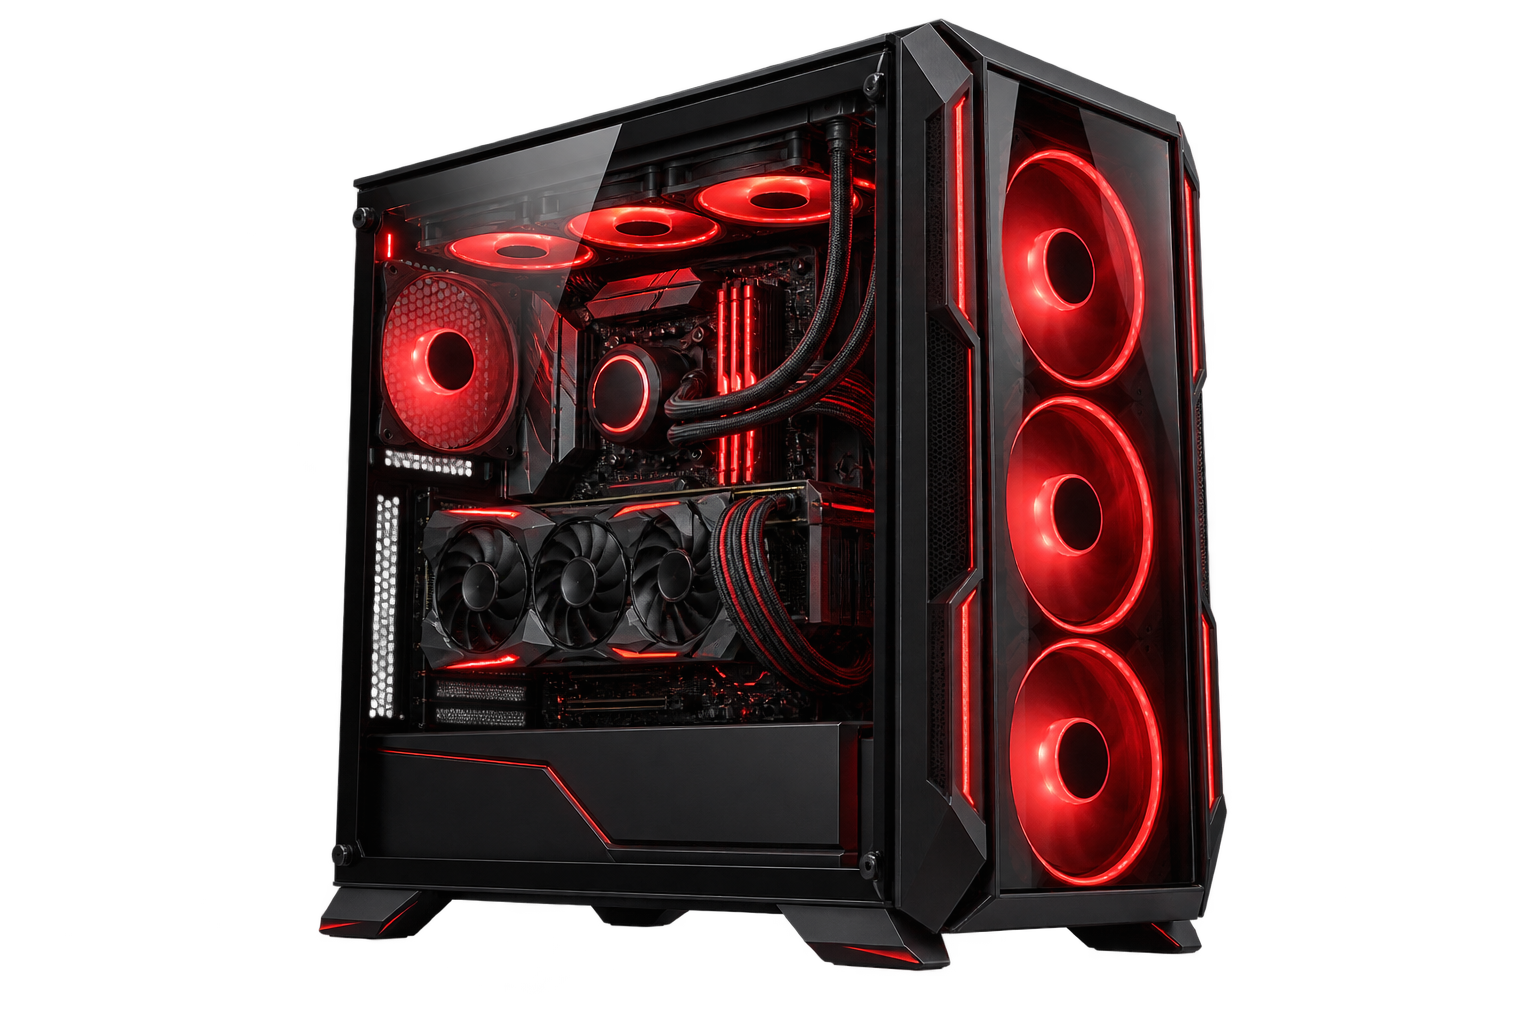
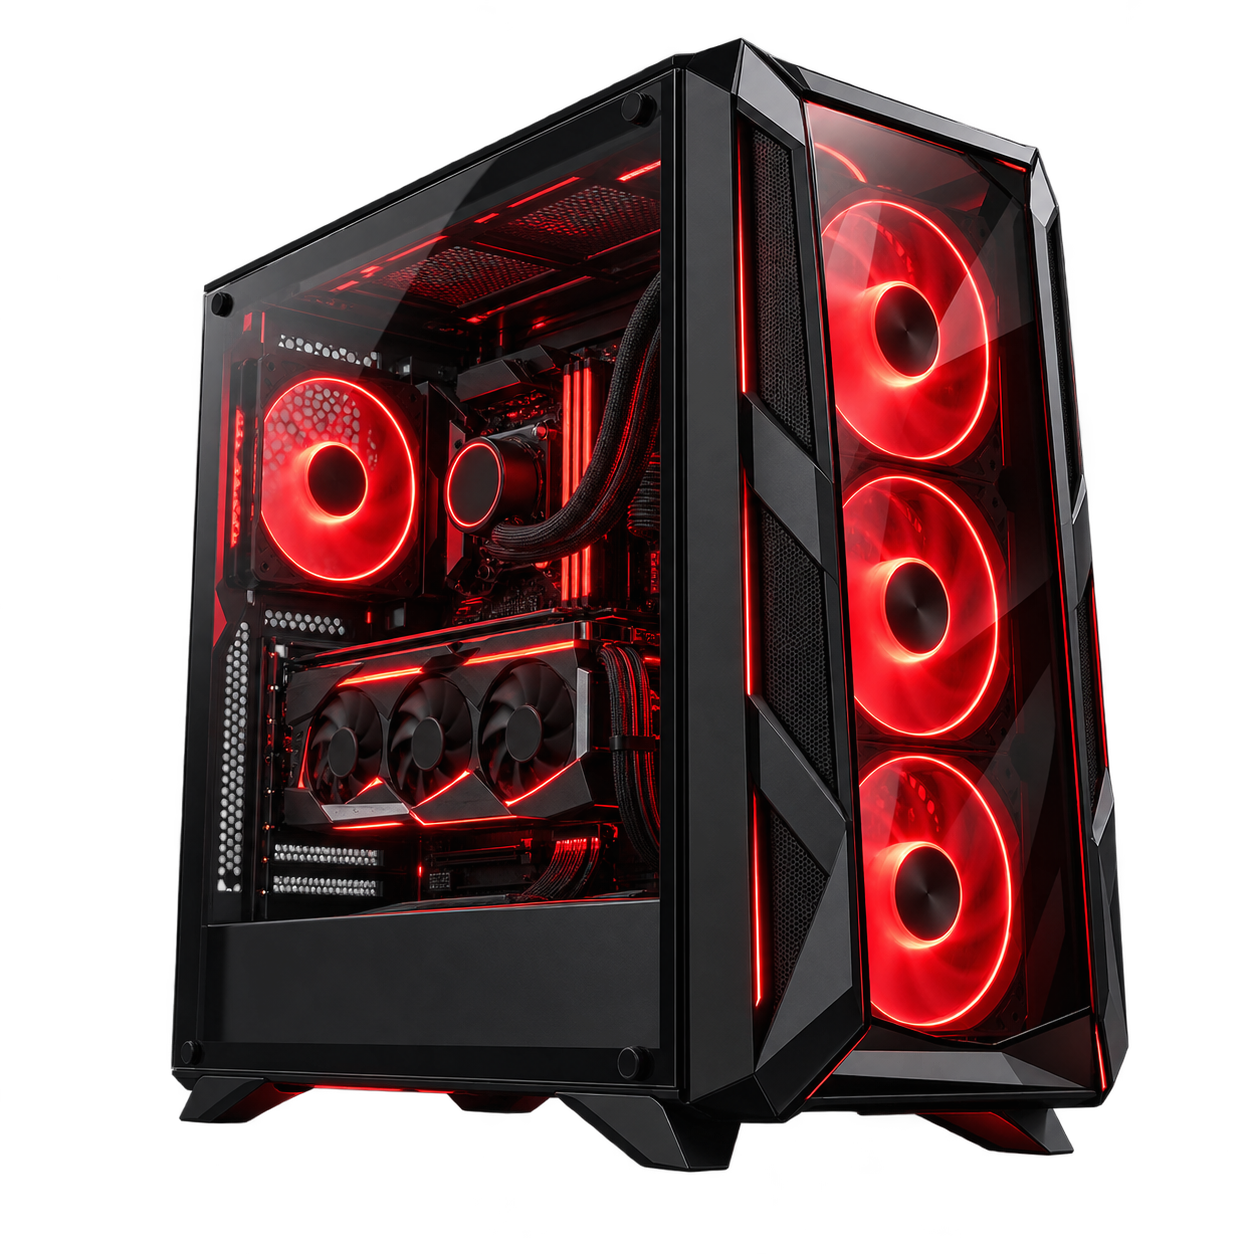
Padroniza o preto em #191a1f e unifica os cards de escolha
- --color-ink passa a ser #191a1f e substitui #0b0c0f e #17191f no hero,
  nas molduras, no degradê do fundo ampliado, nos chanfros e no header,
  o que também elimina a caixa mais escura atrás do texto do hero.
- O campo de busca em foco clareia para #202128, mantendo o destaque
  sobre o novo preto.
- Os quatro cards de escolha usam o visual do antigo card destacado;
  a flag isHighlighted foi removida.
- Novas imagens de PC Gamer e Trabalho e criação (1254x1254), com o
  tamanho de origem e a área do produto medidos de novo.

diff --git a/src/index.css b/src/index.css
@@ -18,7 +18,8 @@
   --font-logo: Arial, Helvetica, sans-serif;
 
   --color-brand: #ed0024;
-  --color-ink: #17191f;
+  /* Preto da marca: fundos escuros, texto principal e as fusões dos degradês com o fundo do hero. */
+  --color-ink: #191a1f;
   --color-success: #008c35;
   --color-muted: #656a73;
   --color-line: #e8e9ed;
@@ -126,7 +127,7 @@
   --frame-line: 1px;
   --frame-cut: 12px;
   --frame-accent: var(--color-brand);
-  --frame-fill: #0b0c0f;
+  --frame-fill: var(--color-ink);
   --frame-glow: #ed002459;
 
   position: relative;
@@ -453,8 +454,16 @@
     position: absolute;
     inset: 0;
     background:
-      linear-gradient(90deg, #0b0c0f 0%, #0b0c0feb 28%, #0b0c0f8c 50%, transparent 72%, transparent 94%, #0b0c0f),
-      linear-gradient(180deg, #0b0c0f, transparent 12%, transparent 88%, #0b0c0f);
+      linear-gradient(
+        90deg,
+        var(--color-ink) 0%,
+        color-mix(in srgb, var(--color-ink) 92%, transparent) 28%,
+        color-mix(in srgb, var(--color-ink) 55%, transparent) 50%,
+        transparent 72%,
+        transparent 94%,
+        var(--color-ink)
+      ),
+      linear-gradient(180deg, var(--color-ink), transparent 12%, transparent 88%, var(--color-ink));
   }
 
   /*
@@ -641,7 +650,7 @@
   .chamfer {
     --cut: 8px;
     --chamfer-border: #34363d;
-    --chamfer-fill: #0b0c0f;
+    --chamfer-fill: var(--color-ink);
     position: relative;
     isolation: isolate;
   }
@@ -678,8 +687,9 @@
     --chamfer-border: var(--color-brand);
   }
 
+  /* Um pouco mais claro que o preto da marca, para o campo ativo se destacar além da borda. */
   .chamfer-field:focus-within {
-    --chamfer-fill: #121318;
+    --chamfer-fill: #202128;
   }
 
   .chamfer-accent {
@@ -694,7 +704,7 @@
   .header-bar {
     --cut: 12px;
     --chamfer-border: #c8001f;
-    --chamfer-fill: linear-gradient(180deg, #1a1b20, #0b0c0f);
+    --chamfer-fill: linear-gradient(180deg, #1a1b20, var(--color-ink));
   }
 
   .header-bar :focus-visible {
@@ -734,20 +744,9 @@
 
   .purpose-card {
     --cut: 16px;
-    --chamfer-border: #34363d;
-    --chamfer-fill: radial-gradient(120% 90% at 80% 85%, #1c1c21, #0c0c0f 70%);
-    /* drop-shadow segue o contorno chanfrado; box-shadow ficaria retangular. */
-    transition: filter 200ms;
-  }
-
-  .purpose-card.is-highlighted {
-    --chamfer-fill: radial-gradient(120% 90% at 80% 85%, #2a0a10, #0d0b0d 70%);
-  }
-
-  .purpose-card:hover,
-  .purpose-card:focus-visible,
-  .purpose-card.is-highlighted {
     --chamfer-border: var(--color-brand);
+    --chamfer-fill: radial-gradient(120% 90% at 80% 85%, #2a0a10, #0d0b0d 70%);
+    /* drop-shadow segue o contorno chanfrado; box-shadow ficaria retangular. */
     filter: drop-shadow(0 0 10px #ed002459);
   }
 
@@ -781,14 +780,8 @@
 
   .purpose-card-arrow {
     --cut: 6px;
-    --chamfer-border: #4a4c54;
-    --chamfer-fill: #101114;
-  }
-
-  .purpose-card:hover .purpose-card-arrow,
-  .purpose-card:focus-visible .purpose-card-arrow,
-  .purpose-card.is-highlighted .purpose-card-arrow {
     --chamfer-border: var(--color-brand);
+    --chamfer-fill: #101114;
   }
 
   /*

diff --git a/src/data/home.js b/src/data/home.js
@@ -5,11 +5,12 @@ import homeOfficeImage from '../assets/casa-escritorio.png';
 import buildPcImage from '../assets/monte-seu-pc.png';
 
 /*
-  Os PNGs têm 1536x1024 com bastante margem transparente. `imageFrame` marca a área ocupada
-  pelo produto (em px da imagem original) para o card enquadrar o produto, não a tela inteira.
-  Se uma imagem for trocada, essa área precisa ser medida de novo.
+  Os PNGs têm bastante margem transparente. `imageFrame` marca a área ocupada pelo produto (em px
+  da imagem original) para o card enquadrar o produto, não a tela inteira. Se uma imagem for
+  trocada, o tamanho de origem e essa área precisam ser medidos de novo.
 */
-const IMAGE_SOURCE = { sourceWidth: 1536, sourceHeight: 1024 };
+const WIDE_SOURCE = { sourceWidth: 1536, sourceHeight: 1024 };
+const SQUARE_SOURCE = { sourceWidth: 1254, sourceHeight: 1254 };
 
 export const PURPOSES = [
   {
@@ -18,8 +19,7 @@ export const PURPOSES = [
     href: '#offers',
     category: 'Hardware',
     image: pcGamerImage,
-    imageFrame: { ...IMAGE_SOURCE, x: 318, y: 18, width: 909, height: 954 },
-    isHighlighted: true,
+    imageFrame: { ...SQUARE_SOURCE, x: 171, y: 37, width: 958, height: 1136 },
   },
   {
     title: 'Trabalho e criação',
@@ -27,7 +27,7 @@ export const PURPOSES = [
     href: '#offers',
     category: 'Hardware',
     image: workstationImage,
-    imageFrame: { ...IMAGE_SOURCE, x: 337, y: 10, width: 861, height: 987 },
+    imageFrame: { ...SQUARE_SOURCE, x: 205, y: 41, width: 850, height: 1135 },
   },
   {
     title: 'Casa e escritório',
@@ -35,14 +35,14 @@ export const PURPOSES = [
     href: '#offers',
     category: 'Monitores',
     image: homeOfficeImage,
-    imageFrame: { ...IMAGE_SOURCE, x: 86, y: 30, width: 1406, height: 920 },
+    imageFrame: { ...WIDE_SOURCE, x: 86, y: 30, width: 1406, height: 920 },
   },
   {
     title: 'Monte seu PC',
     description: ['Escolha cada peça', 'do seu jeito.'],
     href: '#builder',
     image: buildPcImage,
-    imageFrame: { ...IMAGE_SOURCE, x: 12, y: 40, width: 1521, height: 957 },
+    imageFrame: { ...WIDE_SOURCE, x: 12, y: 40, width: 1521, height: 957 },
   },
 ];
 

diff --git a/src/pages/home/PurposeCard.jsx b/src/pages/home/PurposeCard.jsx
@@ -2,13 +2,13 @@ import { ArrowUpRight } from 'lucide-react';
 
 // O card inteiro é um único link; seta, cantos e imagem são decorativos (o título já nomeia o link).
 export default function PurposeCard({ purpose, onFilter }) {
-  const { title, description, href, category, image, imageFrame, isHighlighted } = purpose;
+  const { title, description, href, category, image, imageFrame } = purpose;
 
   return (
     <a
       href={href}
       onClick={category ? () => onFilter(category) : undefined}
-      className={`chamfer purpose-card flex flex-col gap-2 p-[clamp(14px,2.2svh,24px)] text-white ${isHighlighted ? 'is-highlighted' : ''}`}
+      className="chamfer purpose-card flex flex-col gap-2 p-[clamp(14px,2.2svh,24px)] text-white"
     >
       <span aria-hidden="true" className="purpose-card-corners" />
 

diff --git a/src/pages/home/Hero.jsx b/src/pages/home/Hero.jsx
@@ -15,7 +15,7 @@ export default function Hero({ onFilter, children }) {
   return (
     // A seção ocupa a tela (com teto definido em .hero): o painel flutua no topo, os cards
     // ficam na base e o bloco do texto cresce para preencher o espaço entre eles.
-    <section className="hero flex flex-col bg-[#191A1F] text-white">
+    <section className="hero flex flex-col bg-ink text-white">
       <div className="flex flex-1">
         <div
           role="region"
